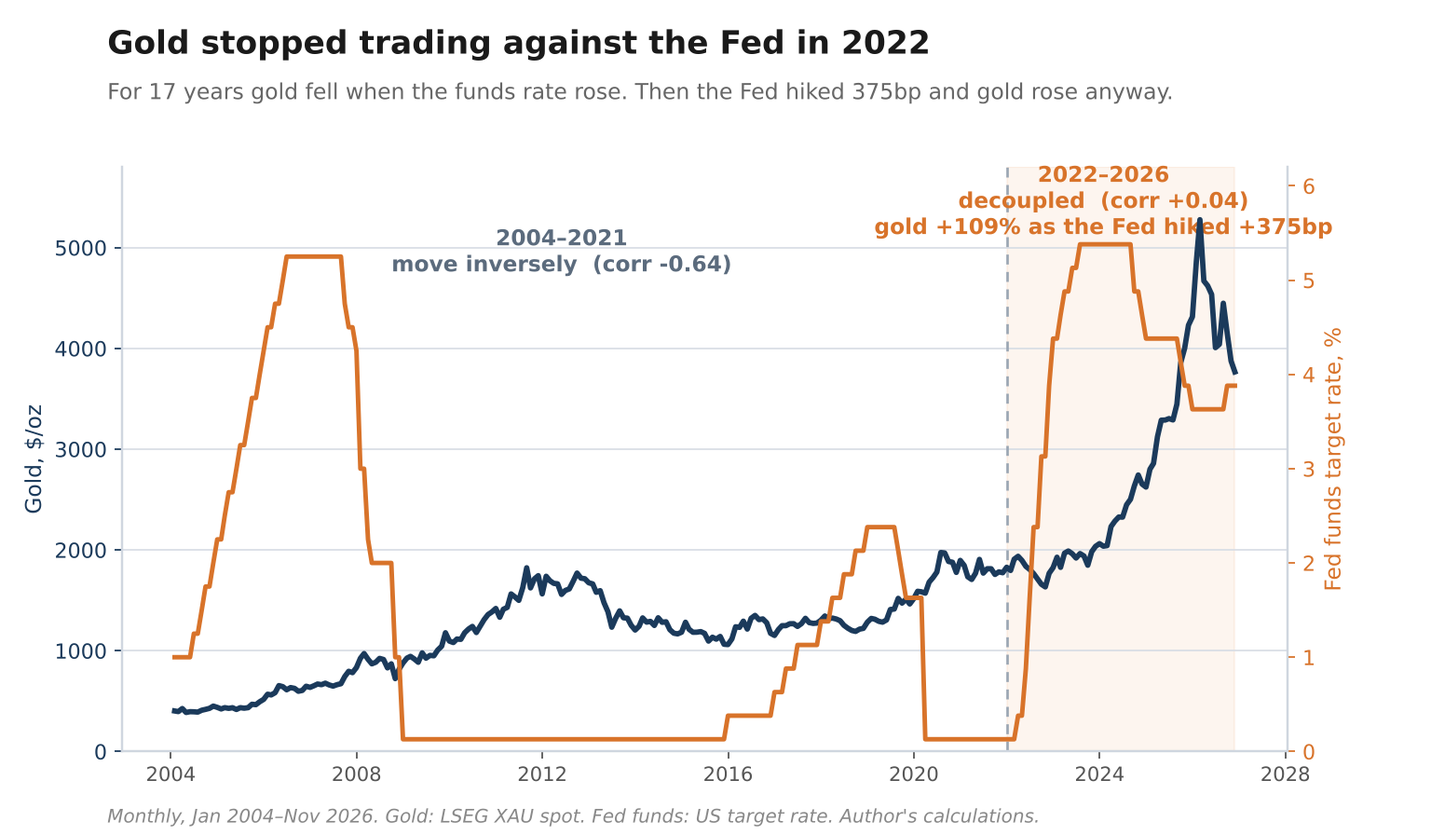
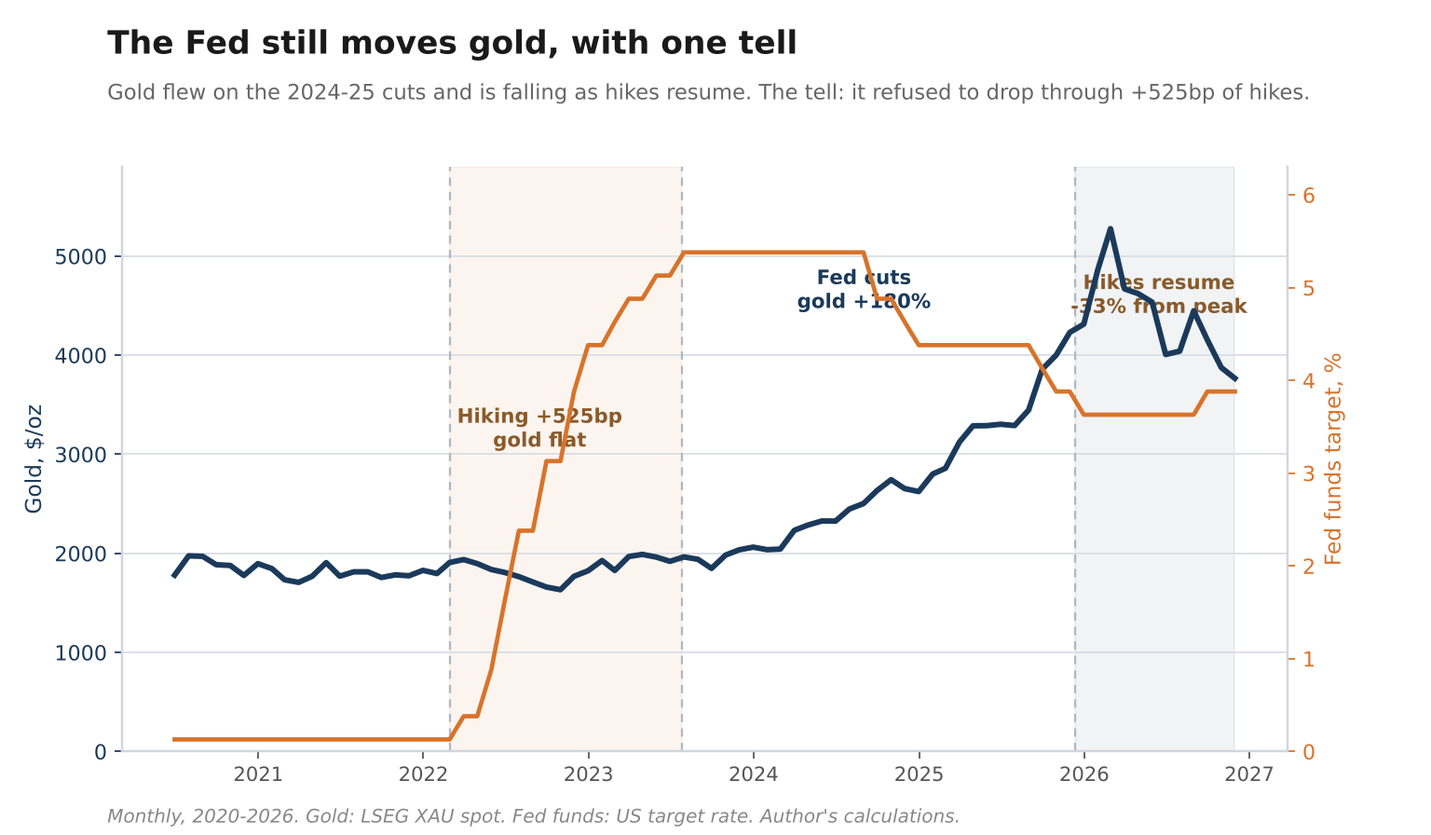
Rewrite gold Post 3 around "the floor is a flow"; fix overclaims
Phase analysis of the two workbooks showed the "+109% while hiking /
correlation broke" claim was an endpoint artifact: gold was flat through
the 2022-23 hiking cycle (+525bp) and the +180% move came on the 2024-25
cuts (old inverse relationship, -0.95). Removed that claim. New spine: the
floor is the flow of central-bank buying (321t Q3), not a price level, so
a $3,741 print doesn't break it. Honest rate framing kept (gold's
resilience through the hiking window only). Fixed ledger to confirms/breaks
(China row corrected), noted the Sept Fed hike, 2011 digression dropped
(gold actually fell ~44% to liftoff), $1.09 = ~1%, Disclosure/Sources
split, prior-post links, leads with the 2026 low. Re-annotated the rate
chart honestly (three phases) and added central-bank-flow.png.

Claude-Session: https://claude.ai/code/session_01QdQsGoiXhncThYU9EX1Ee4

diff --git a/charts/make_regime_chart.py b/charts/make_regime_chart.py
@@ -1,77 +1,61 @@
-"""Regime-break chart for the gold post, house style (navy + orange, clean grid).
-Run: python3 -I charts/make_regime_chart.py
-Reads the two source workbooks, writes charts/gold-vs-fedfunds-regime.png.
-"""
-import matplotlib
-matplotlib.use("Agg")
+"""Gold vs fed funds, honest three-phase version. House style.
+Run: python3 -I charts/make_regime_chart.py"""
+import matplotlib; matplotlib.use("Agg")
 import matplotlib.pyplot as plt
-import openpyxl, datetime as dt
-import pandas as pd, numpy as np
-
-# --- house palette (from Post 1/2 make_charts.py) ---
+import openpyxl, datetime as dt, pandas as pd, numpy as np
 NAVY="#1b3a5b"; ORANGE="#d8732a"; SLATE="#8a9bb0"; INK="#1a1a1a"; GRID="#d9dee6"
-plt.rcParams.update({"font.family":"DejaVu Sans","font.size":12,
-    "axes.edgecolor":"#cfd6df","axes.linewidth":1.0,"figure.dpi":160})
-
+plt.rcParams.update({"font.family":"DejaVu Sans","font.size":12,"axes.edgecolor":"#cfd6df","axes.linewidth":1.0,"figure.dpi":160})
 GOLD="/root/.claude/uploads/c3b4cb41-5c57-50fe-9c30-4ede4011645b/1e654842-gold_max.xlsx"
 FED="/root/.claude/uploads/c3b4cb41-5c57-50fe-9c30-4ede4011645b/47a29518-fed_fund_rates.xlsx"
-
-def load(path):
-    wb=openpyxl.load_workbook(path,read_only=True,data_only=True)
-    ws=wb[wb.sheetnames[0]]; rows=[]
+def load(p):
+    wb=openpyxl.load_workbook(p,read_only=True,data_only=True); ws=wb[wb.sheetnames[0]]; rows=[]
     for r in ws.iter_rows(min_row=3,values_only=True):
         d,v=r[0],r[1]
         if isinstance(d,dt.datetime) and isinstance(v,(int,float)): rows.append((d.date(),float(v)))
-    wb.close()
-    s=pd.Series({d:v for d,v in rows}).sort_index(); s.index=pd.to_datetime(s.index); return s
-
+    wb.close(); s=pd.Series({d:v for d,v in rows}).sort_index(); s.index=pd.to_datetime(s.index); return s
 gold=load(GOLD); fed=load(FED)
 fed_d=fed.reindex(gold.index.union(fed.index)).sort_index().ffill().reindex(gold.index)
-df=pd.DataFrame({"gold":gold,"fed":fed_d}).dropna().loc["2004-01-01":]
-m=df.resample("ME").last()
-x=m.index
-
-def corr(a,b): return np.corrcoef(a,b)[0,1]
-c_old=corr(*[df.loc["2004-01-01":"2021-12-31"][k] for k in ("gold","fed")])
-c_new=corr(*[df.loc["2022-01-01":][k] for k in ("gold","fed")])
-
-fig,ax=plt.subplots(figsize=(9.6,5.6))
-ax2=ax.twinx()
-split=pd.Timestamp("2022-01-01")
-# shade the post-2022 regime faintly
-ax.axvspan(split,x[-1],color="#f3b98e",alpha=0.14,zorder=0)
-ax.axvline(split,color="#9aa6b4",lw=1.2,ls=(0,(4,3)),zorder=2)
-
-ln1=ax.plot(x,m["gold"],color=NAVY,lw=2.6,zorder=4,label="Gold ($/oz, left)")
-ln2=ax2.plot(x,m["fed"],color=ORANGE,lw=2.2,zorder=3,label="Fed funds target (%, right)")
-
-ax.set_ylabel("Gold, $/oz",color=NAVY,fontsize=10.5)
-ax2.set_ylabel("Fed funds target rate, %",color=ORANGE,fontsize=10.5)
-ax.tick_params(axis="y",colors=NAVY,labelsize=10)
-ax2.tick_params(axis="y",colors=ORANGE,labelsize=10)
-ax.set_ylim(0,5800); ax2.set_ylim(0,6.2)
-ax.tick_params(axis="x",labelsize=9.5,colors="#555")
-for s in ["top"]:
-    ax.spines[s].set_visible(False); ax2.spines[s].set_visible(False)
+df=pd.DataFrame({"gold":gold,"fed":fed_d}).dropna().loc["2020-06-01":]
+m=df.resample("ME").last(); x=m.index
+fig,ax=plt.subplots(figsize=(9.6,5.6)); ax2=ax.twinx()
+p_hike=pd.Timestamp("2022-03-01"); p_peak=pd.Timestamp("2023-07-27"); p_cut_end=pd.Timestamp("2025-12-11")
+ax.axvspan(p_hike,p_peak,color="#d8732a",alpha=0.07); ax.axvspan(p_cut_end,x[-1],color="#1b3a5b",alpha=0.06)
+for d in (p_hike,p_peak,p_cut_end): ax.axvline(d,color="#aeb7c2",lw=1.0,ls=(0,(4,3)))
+ax.plot(x,m["gold"],color=NAVY,lw=2.7,zorder=4)
+ax2.plot(x,m["fed"],color=ORANGE,lw=2.1,zorder=3)
+ax.set_ylabel("Gold, $/oz",color=NAVY,fontsize=10.5); ax2.set_ylabel("Fed funds target, %",color=ORANGE,fontsize=10.5)
+ax.tick_params(axis="y",colors=NAVY,labelsize=10); ax2.tick_params(axis="y",colors=ORANGE,labelsize=10)
+ax.set_ylim(0,5900); ax2.set_ylim(0,6.3); ax.tick_params(axis="x",labelsize=9.5,colors="#555")
+ax.spines["top"].set_visible(False); ax2.spines["top"].set_visible(False)
 ax.grid(axis="y",color=GRID,lw=0.8,zorder=0)
-
-# regime annotations
-ax.annotate(f"2004–2021\nmove inversely  (corr {c_old:+.2f})",
-            xy=(pd.Timestamp("2012-06-01"),4950),fontsize=10.5,color="#5b6b7d",
-            ha="center",va="center",fontweight="bold")
-ax.annotate(f"2022–2026\ndecoupled  (corr {c_new:+.2f})\ngold +109% as the Fed hiked +375bp",
-            xy=(pd.Timestamp("2024-02-01"),5450),fontsize=10.5,color=ORANGE,
-            ha="center",va="center",fontweight="bold")
-
-fig.suptitle("Gold stopped trading against the Fed in 2022",
-             fontsize=15.5,fontweight="bold",color=INK,x=0.075,ha="left",y=0.965)
-fig.text(0.075,0.875,
-    "For 17 years gold fell when the funds rate rose. Then the Fed hiked 375bp and gold rose anyway.",
-    fontsize=10.6,color="#666",va="bottom")
-fig.text(0.075,0.015,
-    "Monthly, Jan 2004–Nov 2026. Gold: LSEG XAU spot. Fed funds: US target rate. Author's calculations.",
-    fontsize=9,color="#888",style="italic")
+ax.annotate("Hiking +525bp\ngold flat",xy=(pd.Timestamp("2022-09-15"),3250),ha="center",va="center",fontsize=9.6,color="#8a5a2a",fontweight="bold")
+ax.annotate("Fed cuts\ngold +180%",xy=(pd.Timestamp("2024-09-01"),4650),ha="center",va="center",fontsize=9.6,color=NAVY,fontweight="bold")
+ax.annotate("Hikes resume\n-33% from peak",xy=(pd.Timestamp("2026-06-15"),4600),ha="center",va="center",fontsize=9.6,color="#8a5a2a",fontweight="bold")
+fig.suptitle("The Fed still moves gold, with one tell",fontsize=15.5,fontweight="bold",color=INK,x=0.075,ha="left",y=0.965)
+fig.text(0.075,0.875,"Gold flew on the 2024-25 cuts and is falling as hikes resume. The tell: it refused to drop through +525bp of hikes.",fontsize=10.2,color="#666",va="bottom")
+fig.text(0.075,0.015,"Monthly, 2020-2026. Gold: LSEG XAU spot. Fed funds: US target rate. Author's calculations.",fontsize=9,color="#888",style="italic")
 fig.subplots_adjust(left=0.085,right=0.9,top=0.80,bottom=0.10)
-out="charts/gold-vs-fedfunds-regime.png"
-fig.savefig(out,facecolor="white")
-print("wrote",out,"| corr old",round(c_old,3),"new",round(c_new,3))
+fig.savefig("charts/gold-vs-fedfunds-regime.png",facecolor="white"); print("wrote regime chart")
+
+# --- central-bank demand flow chart (the floor) ---
+fig,ax=plt.subplots(figsize=(8.8,5.3))
+q=["Q3'25","Q4'25","Q1'26","Q2'26","Q3'26"]; v=[226.3,209.9,57.7,296.3,321.2]
+cols=[SLATE,SLATE,"#c9a06a",NAVY,ORANGE]
+ax.axhline(227,color="#9aa6b4",lw=1.3,ls=(0,(4,3)),zorder=2)
+ax.annotate("5-year quarterly average, 227t",xy=(0.0,355),fontsize=9.3,color="#6b7785",ha="left")
+ax.bar(range(5),v,color=cols,width=0.64,zorder=3)
+for i,val in enumerate(v):
+    ax.annotate(f"{val:.0f}t",(i,val),xytext=(0,6),textcoords="offset points",ha="center",fontweight="bold",color=INK,fontsize=12)
+ax.annotate("Q1 scare\n(revised down\nfrom 244t)",xy=(2,57.7),xytext=(2,150),ha="center",fontsize=8.8,color="#8a6a3a",
+            arrowprops=dict(arrowstyle="-",color="#c9a06a",lw=1))
+ax.annotate("+42% y/y",xy=(4,321),xytext=(4,360),ha="center",fontsize=9.6,color=ORANGE,fontweight="bold")
+ax.set_xticks(range(5)); ax.set_xticklabels(q,fontsize=11,color="#444")
+ax.set_ylim(0,400); ax.set_yticks([0,100,200,300,400]); ax.set_yticklabels(["0","100","200","300","400t"],color="#555")
+ax.set_ylabel("Central bank net purchases, tonnes/qtr",fontsize=10,color="#555")
+for s in ["top","right"]: ax.spines[s].set_visible(False)
+ax.grid(axis="y",color=GRID,lw=0.8,zorder=0)
+fig.suptitle("The floor is a flow: central banks never stopped buying",fontsize=14.8,fontweight="bold",color=INK,x=0.085,ha="left",y=0.965)
+fig.text(0.085,0.875,"Quarterly central-bank net purchases. After a soft Q1, buying ran at 296t and 321t, above the 5-year average.",fontsize=10.0,color="#666",va="bottom")
+fig.text(0.085,0.02,"Source: World Gold Council, Gold Demand Trends Q3 2026 (3 Nov 2026). 5-yr avg per WGC.",fontsize=9,color="#888",style="italic")
+fig.subplots_adjust(left=0.10,right=0.96,top=0.80,bottom=0.10)
+fig.savefig("charts/central-bank-flow.png",facecolor="white"); print("wrote flow chart")

diff --git a/gold-post3-dca-draft.md b/gold-post3-dca-draft.md
@@ -1,31 +1,49 @@
 # How I'm Actually Buying the Gold Thesis
 
-### A floor I won't price is a floor I can't wait for. Here's the entry method that matches that, the arithmetic behind it, and the two things it doesn't fix.
+### Gold just printed a fresh 2026 low. Here's why I'm buying it on a schedule instead of waiting for a bottom, and the arithmetic behind that.
 
-The last two posts ended in the same place. There is a rising floor under gold, I don't have a price target for it, and here are the specific numbers that would tell me I'm wrong. Several readers asked the obvious follow-up: fine, so how do you actually buy it. This is that post, and it's shorter.
+Gold settled at $3,741 on November 18, a 2026 low. It is down 33% from January's peak and 17% from where it sat when I last wrote in September. A few readers asked whether that breaks the thesis. It doesn't, and this post is about what I'm doing with the weakness instead.
 
 **The short version**
 
-- A thesis that refuses to name a price cannot tell you the day to buy. Dollar-cost averaging (DCA) is the entry method that matches that shape: a fixed dollar amount on a fixed schedule, which buys more shares when the stock is cheap and fewer when it's expensive.
-- The math is real but small. DCA hands you the harmonic mean of your purchase prices, which sits at or below the simple average every time. In a volatile year that's worth maybe 1% to 3% on your cost basis. A tailwind on the entry, not an edge on the thesis.
-- What DCA does not do: it doesn't beat deploying all at once if the price just runs, and it does nothing for the risk that I picked the wrong vehicle. Price is still not a break condition.
-- The thesis break conditions are. The one that mattered most, Q3 central-bank demand, has already reported, and it held. The ledger is at the bottom.
-- The weakness is rate-driven: the 10-year is back near 5% and the market is pricing more Fed hikes. Gold's correlation to the fed funds rate flipped from −0.64 to zero in 2022, and it rose 109% while the Fed hiked 375 basis points, so this is financial-layer pressure on the price, not a crack in the floor.
-- I hold Wheaton Precious Metals and I'm adding on a fixed monthly schedule, not on my read of the bottom.
+- The floor under gold was never a price. It is the pace of central-bank buying, and that pace hit 321 tonnes in Q3, up 42% year on year. A lower spot price doesn't touch it.
+- A thesis with no price target can't tell you the day to buy. Dollar-cost averaging fits that shape: fixed dollars on a fixed schedule, more shares when the price is down.
+- The math is small and real. DCA gives you the harmonic mean of your purchase prices, about 1% under the simple average in a volatile year. It does nothing for the risk I picked the wrong vehicle, and price is still not a break condition.
+- I hold Wheaton Precious Metals and add on a fixed monthly schedule. The break conditions and where they stand are at the bottom.
 
-## You can't put a limit order at a floor you won't price
+## The floor is a flow, not a price
 
-Both prior posts refused to give a price target, on purpose. Gold has no cash flows, so every target I've seen is someone backing into a number from a monetary-base ratio or an inflation adjustment and presenting precision the method doesn't support. What I argued instead was a direction: the marginal buyer is now price-insensitive central banks, the floor under the metal ratchets higher over time, and the financial layer still sets the week-to-week price above that floor.
+$3,741 looks like a problem for a "rising floor" thesis until you remember what the floor is. In [June](#) and [September](#) I argued it was never a line on the chart. It is the pace of price-insensitive central-bank buying, which is a flow measured in tonnes per quarter, not a level in dollars.
 
-The World Gold Council lands in the same spot, and more usefully for this post, says what to do about it. In "Where floor art thou?" (November 5, 2026), writing about an asset that has returned close to 9% a year since 1971: "averaging into weakness has historically made sense," and "the more useful question is not where the floor is, but whether weakness is becoming an increasingly attractive opportunity to add."
+That flow is intact. Central banks bought 321 tonnes in Q3, above Q2's 296 and well above the five-year average of 227, taking the year to 675 tonnes, 6% ahead of last year. The TIC data shows the same institutions selling Treasuries to pay for it. None of that moved when the price fell. What fell is the thing the financial layer controls: the ETFs and macro funds that set the week-to-week price marked gold down, while the structural bid kept accumulating underneath.
 
-I think that's the honest consequence of a no-target thesis, not a dodge. If I can't tell you whether gold bottoms at $3,857 or keeps going to $3,400, then I can't tell you the single day to put money in. A limit order needs a level. I don't have one. What's left is to buy a fixed amount on a fixed date and let the schedule, rather than my guess, set the entry.
+![Central-bank buying by quarter](charts/central-bank-flow.png)
+
+*Quarterly central-bank net purchases. After a soft Q1 (since revised down to 57t), buying ran 296t and 321t, above the 227t five-year average. Source: WGC Gold Demand Trends Q3 2026.*
+
+So "where is the floor" is the wrong question. The floor is 321 tonnes a quarter of demand that doesn't care about the price, and it is still there at $3,741.
+
+## What's pushing the price down
+
+The price above that floor is set by rates, and rates are moving the wrong way for gold. The Fed resumed hiking in September, lifting the funds rate to 3.88%. The market has December's hike all but priced and leans toward 4.5% to 4.75% by mid-2027. The 10-year Treasury yield is back near 5% and the 30-year near 5.4%, not far off their early-October highs around 5.35% and 5.73%. Higher rates raise the cost of holding something that yields nothing, and the financial layer sells gold on exactly that. The WGC pinned October's drop on the same causes: "Fed rate-path repricing, speculative de-grossing," and a rotation into bonds.
+
+I'm not going to tell you rates stopped mattering. They move the price, and right now they're moving it down. The honest version is narrower, and it's in the data. Through the fastest hiking cycle in forty years, the 525 basis points from early 2022 to mid-2023, gold didn't fall. It went from $1,801 to about $1,950, flat, when the old rate-to-gold relationship said it should have dropped hard. The explosive move came afterward, on the cuts, which the old relationship explains fine. The structural bid doesn't override rates. It stopped letting gold fall when rates said it should.
+
+![Gold versus the fed funds rate](charts/gold-vs-fedfunds-regime.png)
+
+*Gold versus the fed funds target, 2020–2026. Gold held flat through the 2022–23 hiking cycle (+525bp), rose on the 2024–25 cuts, and is falling as hikes resume. Source: LSEG XAU spot, US fed funds target; author's calculations.*
+
+That is the whole reason I can average into rate-driven weakness without flinching. The dip is caused by the layer I expect to be noisy. The floor is the layer I'm betting on, and it's still buying.
+
+## You can't limit-order a floor you won't price
+
+Both prior posts refused a price target, on purpose. Gold has no cash flows, so every target I've seen is someone backing into a number from a monetary ratio and calling it precision. If I can't tell you whether gold bottoms at $3,857 or $3,400, I can't tell you the single day to buy. A limit order needs a level. I don't have one. What's left is to buy a fixed amount on a fixed date and let the schedule set the entry.
 
 ## The arithmetic
 
-Dollar-cost averaging means investing the same dollar amount on a regular schedule regardless of price. Because the dollar amount is fixed, the number of shares it buys moves inversely with the price: more shares when it's down, fewer when it's up.
+Dollar-cost averaging means investing the same dollar amount on a schedule regardless of price. The fixed dollar buys more shares when the price is low and fewer when it's high.
 
-Here's $1,000 a month into WPM across four months of the kind of swing this stock actually produces.
+Here's $1,000 a month into WPM across four months of the kind of swing it actually produces.
 
 | Month | WPM price | $1,000 buys |
 |---|---|---|
@@ -34,61 +52,41 @@ Here's $1,000 a month into WPM across four months of the kind of swing this stoc
 | 3 | $100 | 10.00 sh |
 | 4 | $120 | 8.33 sh |
 
-You put in $4,000 and own 35.12 shares. Your cost basis is $4,000 ÷ 35.12 = **$113.91 a share**. The simple average of the four prices is ($130 + $110 + $100 + $120) ÷ 4 = **$115.00**. You came in $1.09 under it.
+You put in $4,000 and own 35.12 shares, a cost basis of $4,000 ÷ 35.12 = $113.91. The simple average of the four prices is $115.00. You came in $1.09 under, about 1%.
 
-That $1.09 isn't luck. Your cost basis under DCA is the harmonic mean of the prices you paid, a weighted average that leans toward the low prices because that's where your fixed dollars bought the most shares. The harmonic mean is at or below the simple average every time, and the two are equal only if the price never moves. The gap widens with volatility, so WPM's 30%-to-40% swings make it bigger than it would be on a sleepy stock.
+That gap is the harmonic mean of the prices you paid, which leans toward the lows because that's where the fixed dollars bought the most shares. It sits at or below the simple average every time, and the two are equal only if the price never moves. More volatility, bigger gap, so WPM's swings make it larger than it would be on a sleepy stock. Over a full year it's worth maybe 1% to 3% on the cost basis. A tailwind on the entry, not an edge on the thesis.
 
-Keep it in proportion, though. On these numbers the gap is about 0.9% of cost basis, and across a full year of monthly buys through a wide range it's maybe 1% to 3%. It's a small tailwind on the entry, not a reason to own the position.
+One caution on what the arithmetic proves. The harmonic mean is a fact about the prices I paid. It is not a claim that spreading the money out beats putting it all in today, which depends on what gold does next.
 
-And be careful what the arithmetic actually proves. The harmonic mean is a fact about the prices I paid. It is not a claim that spreading the money out beats putting it all in today. That comparison depends entirely on what gold does next, not on an averaging identity, and it's where most DCA pitches quietly cheat.
+## Where DCA helps, and where it doesn't
 
-## What's pulling it down, and why I keep buying
+DCA is a confession that I can't time the bottom. If I knew gold ran straight up from here, a lump sum today would beat it, and historically lump sum beats DCA more often than not, because markets rise more than they fall. DCA earns its keep when the price chops or falls before it recovers, which is close to where the WGC's own floor framework puts us: of its three conditions for an interim bottom, two are in place and the third, a washout in speculative positioning, is not. They think there may be lower to go first. That's the environment averaging in is built for.
 
-Gold settled at $3,741 on November 18, a fresh 2026 low, and WPM is changing hands around $123. The weakness has a clear cause, and the cause is the whole reason I'm comfortable averaging into it.
+It smooths the price I pay. It does nothing about whether I bought the right thing. Everything in the first post about owning the streamer still applies: WPM carries its mining partners' execution risk, a disruption at Antamina, a partner default, a shift in capital allocation under new management. Spreading my buys across four months dilutes when I buy, not what I bought.
 
-Rates are the driver. The 10-year Treasury yield is back at 5.06% and the 30-year at 5.40%, both just below their early-October highs of about 5.35% and 5.73%. The market has December's Fed hike all but priced and is leaning toward a funds rate near 4.5% to 4.75% by mid-2027. Higher-for-longer rates raise the opportunity cost of holding an asset that pays nothing, and the financial layer, the ETFs and macro funds that trade gold against real yields, has been selling it on exactly that. The WGC pinned October's drop on the same thing: "Fed rate-path repricing, speculative de-grossing," and a rotation into bonds.
-
-In the old regime that would be a reason to wait. From 2004 to 2021, gold and the fed funds rate ran at a −0.64 correlation on the levels, a strong inverse, so a hawkish Fed was a clean headwind. That relationship broke in 2022. Running the numbers myself on the two series, the correlation since January 2022 is +0.04, effectively zero, and gold is up 109% while the Fed took the funds rate from 0.13% to 3.88%, up 375 basis points. Rates stopped predicting gold the year central banks became the marginal buyer, because central banks don't trade the opportunity cost. So the hawkish path in front of us presses on the week-to-week price, the layer above the floor. It doesn't reach the floor.
-
-![Gold stopped trading against the Fed in 2022](charts/gold-vs-fedfunds-regime.png)
-
-*Chart: gold ($/oz) versus the fed funds target rate, monthly, 2004–2026. The two ran inversely (−0.64) for seventeen years; since 2022 the Fed hiked 375bp and gold rose 109% anyway (+0.04). Source: LSEG XAU spot, US fed funds target rate, author's calculations.*
-
-The 2011 comparison some readers will reach for cuts the other way once the mechanism is right. In 2011 policy sat at emergency zero with nowhere to go but tighter, and gold fell for four years as real yields normalized up off the floor, the 2013 taper tantrum most of all, not because the Fed was hiking. It didn't lift off until December 2015, after gold had already fallen a third. Today policy is restrictive, with room to ease. The 10-year TIPS real yield was 0.1% then and 2.6% now, per the WGC's own table. The real-yield move still ahead is the mirror image: 2011 had the headwind coming, today has the tailwind.
-
-So the weakness I'm buying is rate-driven, and rates are the one variable my thesis says no longer sets the floor. That is what makes averaging in rational rather than reckless. I'm buying a dip I can explain, caused by the layer I expect to be noisy, not the layer I'm actually betting on.
-
-## Where this is the right answer, and where it isn't
-
-DCA is not an edge on the gold thesis. It's a confession that I can't time the bottom. If I knew gold ran straight up from here, a lump sum today would beat it, because the shares I'd otherwise buy in months two through four would all cost more than today's price. That's also why, historically, lump sum beats DCA more often than not: markets are up more often than they're down, so waiting usually costs you. DCA only wins in the specific case where the price chops sideways, or falls before it recovers.
-
-That specific case is roughly where the WGC says we are. The same November 5 note runs a floor framework that needs three conditions to call an interim bottom: the price stretched well below its 200-day trend, a sharp dollar rally, and a washout in speculative futures positioning. Two are in place. The third is not. Their words: "a further shake-out in futures positioning would need to take place before a more durable recovery can take hold." Read plainly, they think there may be lower to go before the turn.
-
-Two caveats keep me honest about that. The framework speaks to a three-month horizon and a possible bottom, not to a monthly buying schedule, and two of three conditions is no guarantee the third arrives. It isn't validation of my cadence. It's a backdrop that happens to be the kind DCA is built for, which is a weaker and truer claim than saying the WGC endorsed my plan.
-
-The second point matters more. DCA smooths the price you pay. It does nothing about whether you bought the right thing. Everything in the first post about owning the streamer still applies: WPM carries its mining partners' execution risk, an Antamina disruption, a partner default, a capital-allocation shift under new management. Spreading my buys across four months doesn't dilute a cent of that. It dilutes when I buy, not what I bought.
-
-And price is never a break condition. The break conditions belong to the thesis, not the tape, and the last post named four. Here's where they stand.
+And price is not a break condition. The break conditions belong to the thesis, and the last post named four. Here's where they stand.
 
 ## The break conditions, checked
 
-Carried forward from "The Current Thesis on Gold" (September 8, 2026), graded as written.
+Carried forward from [September](#), graded as written.
 
-| Watch item (set Sep 8, 2026) | What would break it | Status as of Nov 18, 2026 |
+| Watch item (set Sep 8, 2026) | Breaks the thesis if | Status as of Nov 18, 2026 |
 |---|---|---|
-| **Q3 central-bank demand** | Q3 drops back toward Q1's revised 57t instead of holding near Q2's pace | **Held.** Q3 = 321t (WGC GDT Q3, Nov 3), above Q2's 296t. Y-t-d 675t, +6% y/y; full-year pace clears 800t. Not triggered. Next checkpoint: Q4. |
-| **Treasury long-end buybacks** | Nov Quarterly Refunding scales the long-end operations back toward the old $2bn/operation (stress easing) | **Tightening, not easing.** The Nov 4 refunding raised the quarter's liquidity-support buyback envelope to up to $70bn, from $38bn in August, and the tentative schedule lifts the long-end per-operation cap to $6bn (from the $2bn standard and the $4bn September stopgap). They scaled up, not back. |
-| **The 38% reserve-funding metric** | Next WGC survey shows a material rise in the share of central banks funding gold by selling other reserves | **Open.** No new survey since the 2026 edition; next read is mid-2027. |
-| **China TIC trajectory** | The annual pace of Treasury selling accelerates while PBoC keeps buying | **Tightening.** China −$109bn YoY to Aug 2026 (TIC Table 5), wider than the −$98bn I cited through June. Foreign official −$164bn YoY. PBoC +26t in October, 24th straight month. Leg 1 intact. |
+| Q3 central-bank demand | Q3 fell back toward Q1's revised 57t instead of holding near Q2 | **Held.** Q3 = 321t, above Q2's 296t; y-t-d 675t, +6% y/y. |
+| Treasury long-end buybacks | the Nov refunding scaled long-end operations back toward the old $2bn (fiscal stress easing) | **Confirmed the other way.** The Nov 4 refunding raised the quarter's liquidity-support envelope to $70bn from $38bn, and the schedule lifts the long-end per-operation cap to $6bn. |
+| The 38% reserve-funding metric | the next WGC survey shows a material rise in central banks funding gold by selling other reserves | **Open.** No new survey since the 2026 edition; next read mid-2027. |
+| China TIC trajectory | China halts its Treasury rundown or the PBoC stops adding gold | **Not breaking.** China's Treasury holdings fell $109bn year on year to August; the PBoC added 26t in October, its 24th straight month. |
 
-One correction to log while I'm here: my September post put Q2 central-bank demand at 289t. The WGC's Q3 report revised it up to 296t. It doesn't change the direction, but the number in the old post was 289, and it's 296 now.
+One correction to log: my September post put Q2 demand at 289t. The WGC's Q3 report revised it to 296t. Same direction, updated number.
 
-Net: the one condition that could have taken real damage reported in my favour, the Treasury leg scaled its long-end buybacks up rather than back, and the China leg is if anything running faster than when I wrote it. Only the survey metric is still waiting on data, and I'm not going to pretend otherwise. DCA is a way to act on conviction the data still supports. It is not a license to keep buying conviction the data has taken away: if a checkpoint breaks, I stop the schedule regardless of how cheap the stock looks.
+Three of the four are pointing the thesis's way and one is waiting on data. None has broken. DCA is a way to act on conviction the data still supports, and if a checkpoint breaks I stop the schedule regardless of how cheap the stock looks.
 
 ## The close
 
-I still can't tell you where the floor is. Two posts in, the data hasn't changed that, and I've stopped treating it as a problem to solve before I act. A price I won't name isn't a price I can wait for. So I'm not waiting. I'm buying the same slice on the same day every month, and letting the schedule do the part I can't.
+I still can't tell you where the floor is in dollars, because it isn't a dollar figure. It's 321 tonnes a quarter, and it's still buying. A price I won't name isn't a price I can wait for. So I'm not waiting. I'm buying the same slice on the same day every month, and letting the schedule do the part I can't.
 
 ---
 
-*Disclosure: I hold a position in Wheaton Precious Metals and add to it on a fixed monthly schedule. This material is for informational purposes only and does not constitute investment advice. Dollar-cost averaging reduces the impact of entry timing; it does not reduce the risk of the underlying position, does not beat lump-sum investing in a rising market, and does not guarantee a profit or protect against loss. Central bank demand figures from World Gold Council, Gold Demand Trends Q3 2026 (November 3, 2026): Q1 revised to 57t, Q2 296t (revised up from the 289t in my September post), Q3 321t, y-t-d 675t. Floor framework, "averaging into weakness" quote and the 2011-vs-now table from WGC, "Gold Market Commentary: Where floor art thou?" (November 5, 2026). China figures from US Treasury TIC Table 5 (to August 2026) and WGC China update (November 17, 2026). Treasury buyback figures from US Treasury Quarterly Refunding Statements, August 5, 2026 (sb0590, "up to $38 billion… for liquidity support") and November 4, 2026 (sb0678, "up to $70 billion"); "Treasury Announces Increased Sizes of Nominal Long-End Liquidity Support Buybacks Beginning September 9," August 19, 2026 (sb0607, "$2 billion per operation will be at least $4 billion"); and the Tentative Schedule of Treasury Buyback Operations, November 2026 Quarterly Refunding (long-end liquidity-support operations at a $6 billion per-operation maximum). US 10-year (5.06%) and 30-year (5.40%) Treasury yields from CNBC/Tradeweb, November 18, 2026; expected Fed path from CME FedWatch as of November 18, 2026. The gold–fed funds correlation (−0.64 on the levels for 2004–2021, +0.04 since January 2022) and the +375bp / +109% figures are my own calculation from LSEG XAU spot gold and the US fed funds target rate, 2004–2026; 2011 and current TIPS real yields (0.1% and 2.6%) from the WGC "Where floor art thou?" table. Dated price references: COMEX front-month gold settle $3,741/oz (November 18, 2026) and WPM near $123 (NYSE, intraday November 19; prior close $120.27 on November 18).*
+**Disclosure.** I hold a position in Wheaton Precious Metals and add to it on a fixed monthly schedule. This is for information, not investment advice. Dollar-cost averaging reduces the impact of entry timing; it does not reduce the risk of the position, does not beat a lump sum in a rising market, and does not guarantee a profit.
+
+**Sources.** Central-bank demand and the five-year average: World Gold Council, Gold Demand Trends Q3 2026, November 3, 2026 (Q1 revised to 57t, Q2 296t, Q3 321t, y-t-d 675t). Floor framework and the "rate-path repricing" attribution: WGC, "Gold Market Commentary: Where floor art thou?", November 5, 2026. Treasury buybacks: US Treasury Quarterly Refunding Statements, August 5, 2026 (sb0590, "up to $38 billion… for liquidity support") and November 4, 2026 (sb0678, "up to $70 billion"); "Treasury Announces Increased Sizes of Nominal Long-End Liquidity Support Buybacks," August 19, 2026 (sb0607, "$2 billion per operation will be at least $4 billion"); Tentative Schedule of Treasury Buyback Operations, November 2026 Quarterly Refunding ($6 billion long-end per-operation maximum). China Treasury holdings: US Treasury TIC Table 5 (to August 2026). PBoC: WGC China update, November 17, 2026. Treasury yields: CNBC/Tradeweb, November 18, 2026; early-October highs (about 5.35% and 5.73%) and the expected Fed path: CNBC, CME FedWatch, November 2026. Gold and fed funds history for the hiking-cycle figures: LSEG XAU spot and the US fed funds target rate; author's calculations. Prices: COMEX front-month gold $3,741 (November 18, 2026); WPM near $123 (NYSE).
